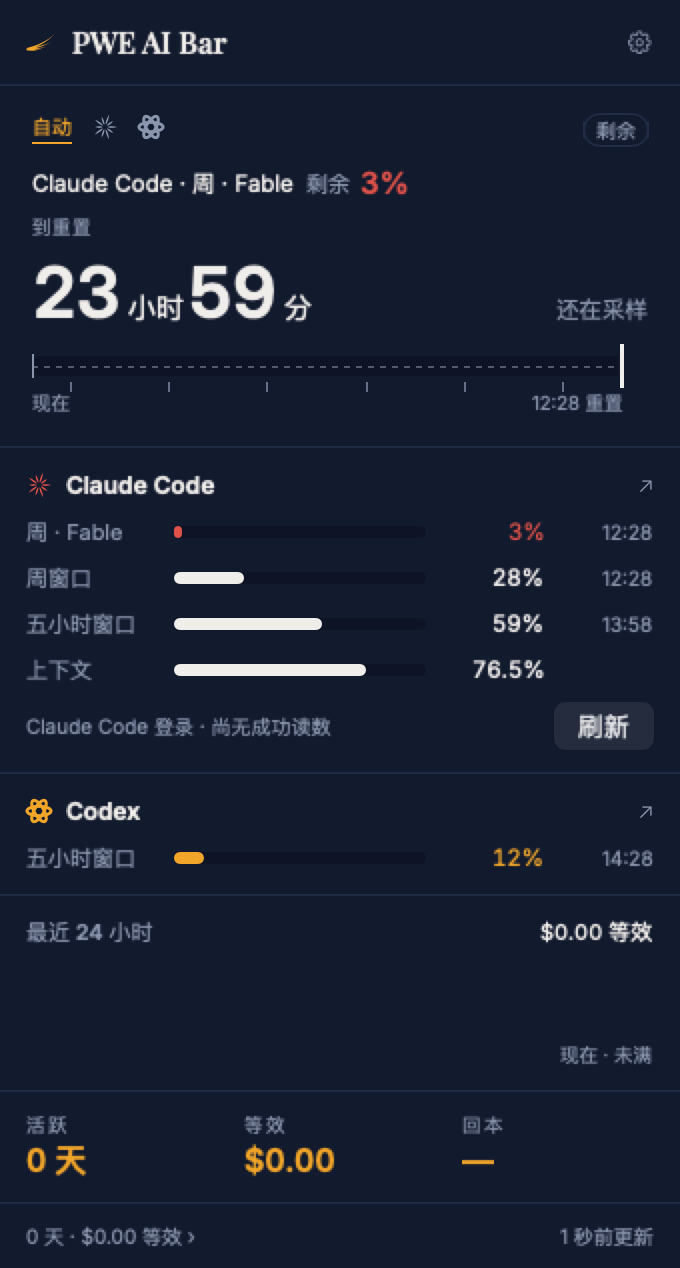
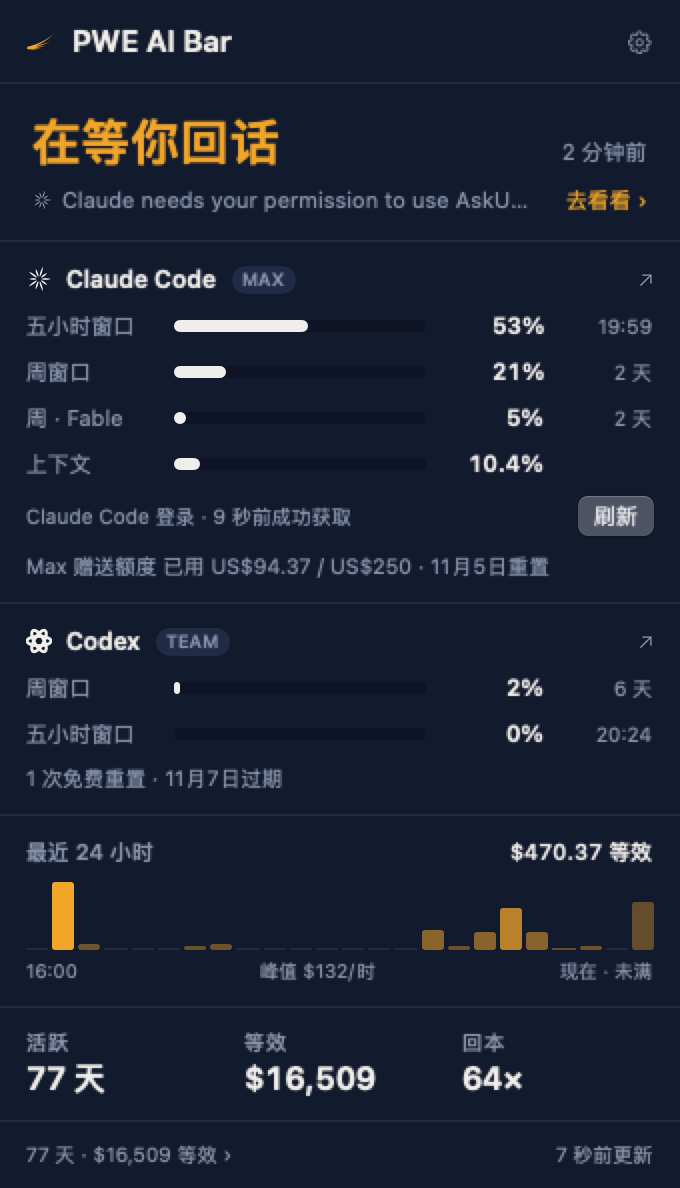
README screenshots: 1.6.8, real usage, one menu bar strip per language
The panels were from 2026-09-08: the old wordmark, $0.00 throughout, no Claude
reading and one Codex row. They are now the full panel drawn by 1.6.8 from this
Mac's real usage, in both languages and both appearances, and the caption says so.

The menu bar strip was a Chinese-only crop. It is now drawn by --icon in each
README's language, and labelled as sample figures. --icon's spent pool said 「耗尽」
in every language; it goes through the strings table now. docs/menubar.png and
docs/menubar-crop.png were referenced nowhere after this.

diff --git a/Sources/PWEAIBar/Core/Probe.swift b/Sources/PWEAIBar/Core/Probe.swift
@@ -16,7 +16,7 @@ enum Probe {
         // Deliberately synthetic, and it must say so: these numbers exercise calm/warm/exhausted
         // in one frame, which live data will not do on demand. Mistaking this sheet for a live
         // reading is a good way to go hunting for a bug that is not there.
-        print("  （合成数据，非实时读数：58 / 87 / 耗尽）")
+        print("  （合成数据，非实时读数：58 / 87 / 已用尽）")
         var snap = Snapshot()
         snap.windows = [
             QuotaWindow(id: "session", provider: .claude, channel: .session, title: "五小时窗口",
@@ -26,7 +26,7 @@ enum Probe {
                         percent: 87, severity: .warning,
                         resetsAt: Date().addingTimeInterval(60000), isActive: true),
             QuotaWindow(id: "codex", provider: .codex, channel: .codex, title: "Codex",
-                        percent: nil, severity: .critical, note: "耗尽"),
+                        percent: nil, severity: .critical, note: L("verdict.spent", "Spent")),
         ]
         snap.contextPercent = 39
 

diff --git a/README.md b/README.md
@@ -14,11 +14,11 @@ But its real job is to find you at the moment it is your turn.
 
 **English** · [简体中文](README.zh-Hans.md)
 
-<img src="docs/menubar-crop.png" alt="Menu bar readout" width="250">
+<img src="docs/menubar-en.png" alt="Menu bar readout" width="257">
 
 <img src="docs/panel-en-dark.png" alt="Panel, dark" width="330"> <img src="docs/panel-en-light.png" alt="Panel, light" width="330">
 
-<sub>English and 简体中文, following the Mac or set in the app.</sub>
+<sub>English and 简体中文, following the Mac or set in the app. The panels are real usage on the author's Mac (1.6.8, 2026-10-18); the menu bar strip uses sample figures, drawn by the app.</sub>
 
 </div>
 

diff --git a/README.zh-Hans.md b/README.zh-Hans.md
@@ -14,11 +14,11 @@
 
 [English](README.md) · **简体中文**
 
-<img src="docs/menubar-crop.png" alt="菜单栏读数" width="250">
+<img src="docs/menubar-zh-Hans.png" alt="菜单栏读数" width="258">
 
 <img src="docs/panel-zh-Hans-dark.png" alt="面板，深色" width="330"> <img src="docs/panel-zh-Hans-light.png" alt="面板，浅色" width="330">
 
-<sub>中英双语，跟随系统或在应用内切换。</sub>
+<sub>中英双语，跟随系统或在应用内切换。面板是作者本机的真实用量（1.6.8，2026-10-18）；菜单栏那一条是 app 自己画的样例数字。</sub>
 
 </div>
 
